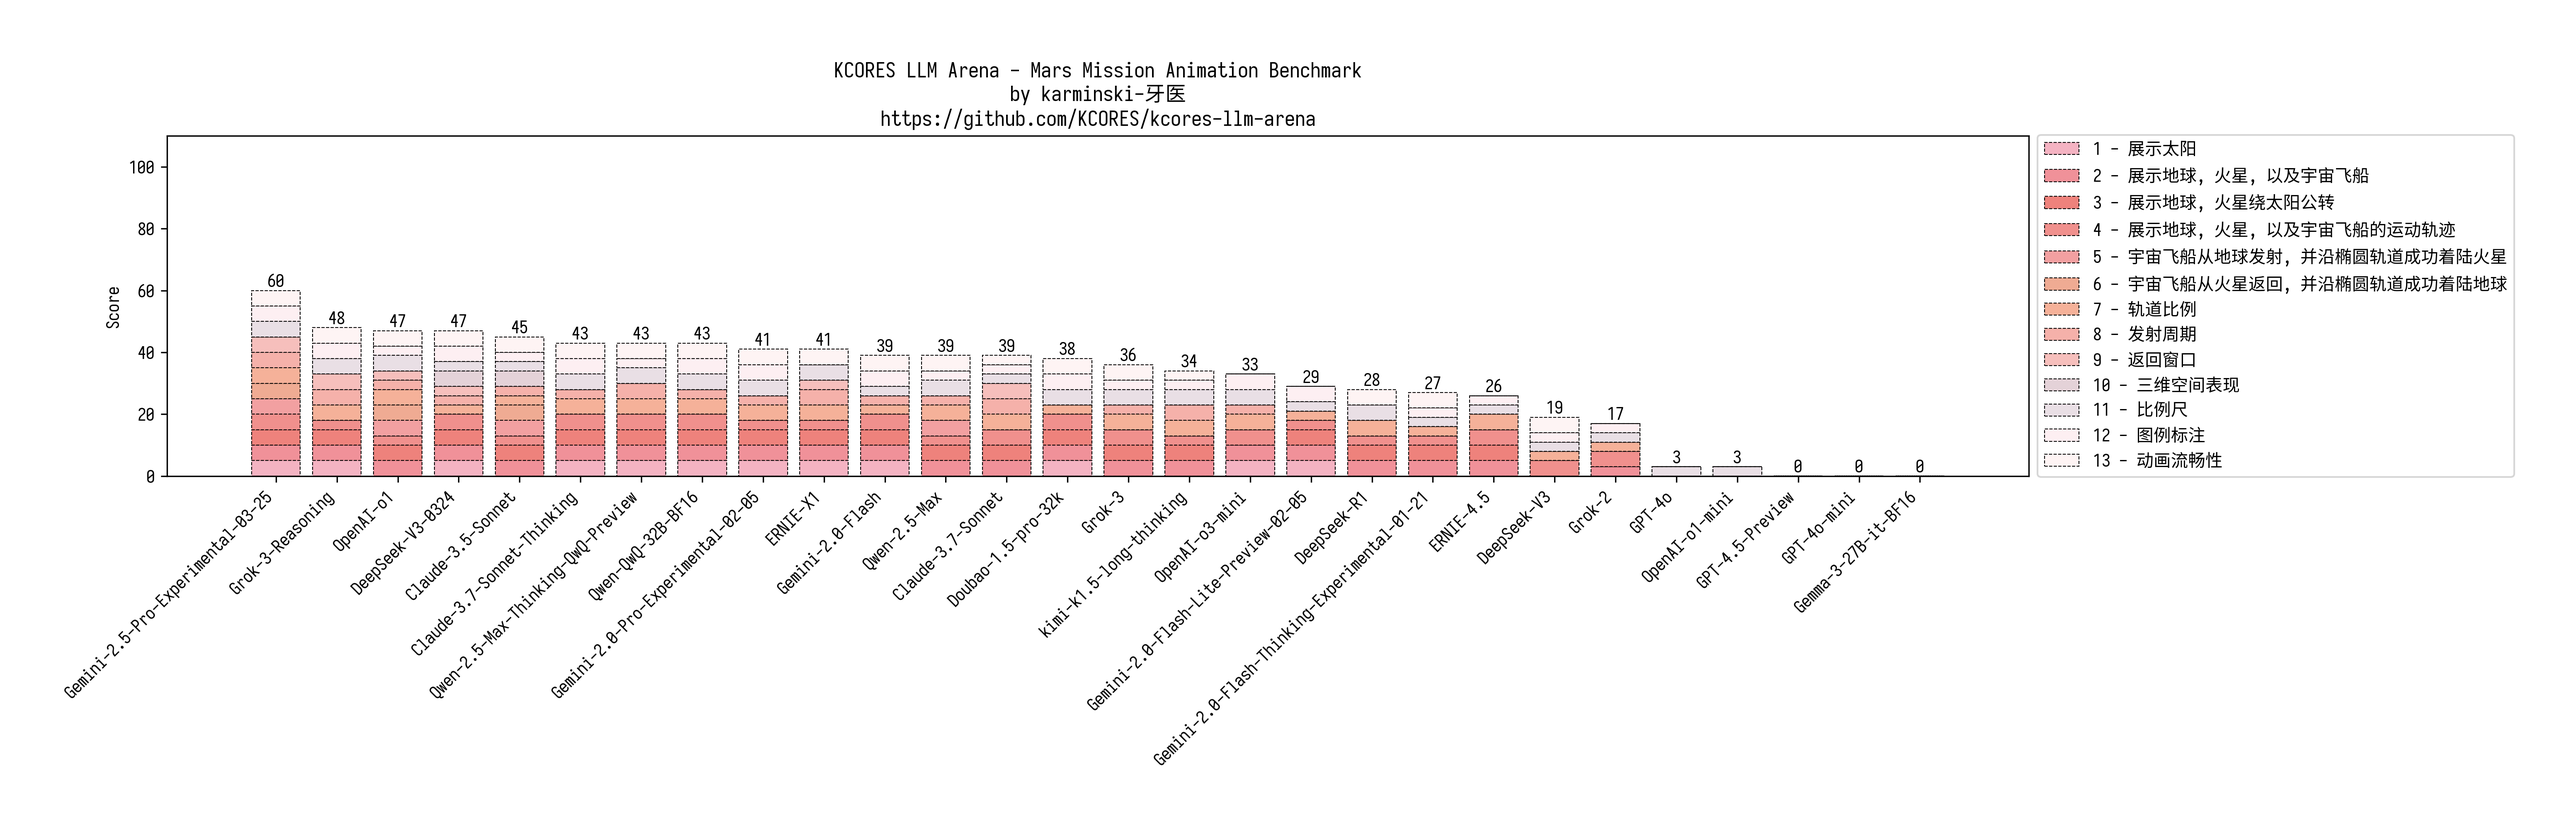
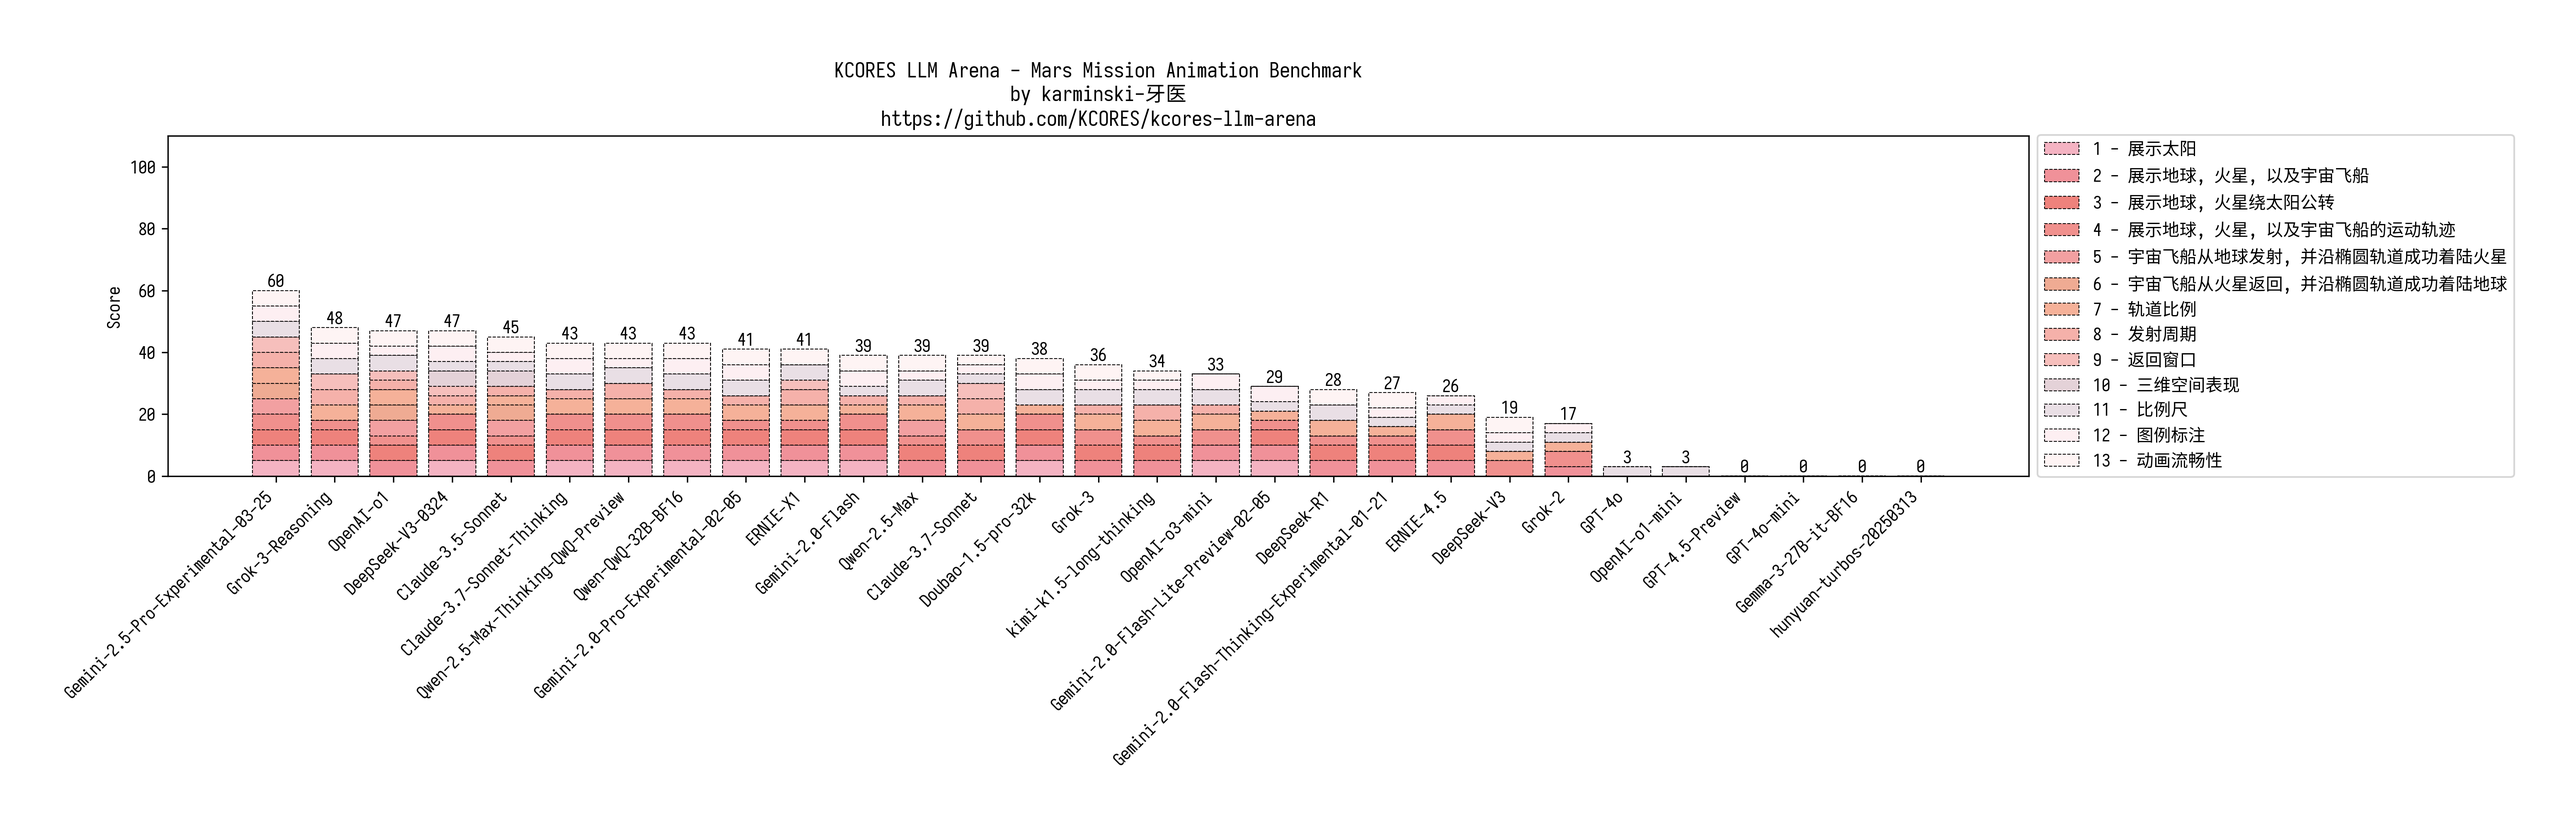
finished evaluation for hunyuan-turbos-20250313 on mars-mission

diff --git a/benchmark-mars-mission/src/benchmark-mars-mission-hunyuan-turbos-20250313-turn-3.py b/benchmark-mars-mission/src/benchmark-mars-mission-hunyuan-turbos-20250313-turn-3.py
@@ -1,0 +1,129 @@
+import numpy as np
+import matplotlib.pyplot as plt
+from mpl_toolkits.mplot3d import Axes3D
+from matplotlib.animation import FuncAnimation
+
+# Constants
+AU = 1.496e11  # Astronomical Unit (m)
+EARTH_RADIUS = 6.371e6  # Earth radius (m)
+MARS_RADIUS = 3.389e6  # Mars radius (m)
+TIME_STEP = 10  # Time step for animation (days)
+TOTAL_DAYS = 800  # Total simulation time (days)
+LAUNCH_WINDOW_DELAY = 26 * 30  # Next launch window delay (days, ~26 months)
+
+# Function to calculate positions (simplified elliptical orbits)
+def calculate_orbit(radius, angular_speed, t):
+    theta = angular_speed * t
+    x = radius * np.cos(theta)
+    y = radius * np.sin(theta)
+    z = 0  # Assuming coplanar orbits for simplicity
+    return x, y, z
+
+# Generate Earth and Mars positions
+days = np.arange(0, TOTAL_DAYS, TIME_STEP)
+earth_orbit_radius = AU
+mars_orbit_radius = 1.524 * AU  # Mars is 1.524 AU from the Sun
+
+earth_positions = np.array([calculate_orbit(earth_orbit_radius, 2 * np.pi / (365), t) for t in days])
+mars_positions = np.array([calculate_orbit(mars_orbit_radius, 2 * np.pi / (687), t) for t in days])
+
+# Launch and landing points
+launch_time = 0
+landing_time = 400  # Simulated landing time (days)
+return_time = landing_time + 300  # Simulated return time (days)
+
+# Spacecraft trajectory (simplified straight-line interpolation)
+def spacecraft_trajectory(start, end, duration, total_days):
+    t = np.arange(0, total_days, TIME_STEP)
+    trajectory = []
+    for ti in t:
+        if ti <= launch_time:
+            point = start
+        elif ti <= landing_time:
+            progress = (ti - launch_time) / (landing_time - launch_time)
+            point = (1 - progress) * np.array(start) + progress * np.array(end)
+        elif ti <= return_time:
+            progress = (ti - landing_time) / (return_time - landing_time)
+            point = (1 - progress) * np.array(end) + progress * np.array(start)
+        else:
+            point = start
+        trajectory.append(point)
+    return np.array(trajectory)
+
+# Earth to Mars trajectory
+earth_to_mars_trajectory = spacecraft_trajectory(
+    earth_positions[launch_time], mars_positions[landing_time], landing_time - launch_time, TOTAL_DAYS
+)
+
+# Mars to Earth trajectory
+mars_to_earth_trajectory = spacecraft_trajectory(
+    mars_positions[landing_time], earth_positions[return_time], return_time - landing_time, TOTAL_DAYS
+)
+
+# Combine all trajectories
+spacecraft_positions = np.vstack([
+    earth_positions[:launch_time],
+    earth_to_mars_trajectory,
+    mars_positions[landing_time:return_time],
+    mars_to_earth_trajectory,
+    earth_positions[return_time:]
+])
+
+# Plotting
+fig = plt.figure(figsize=(10, 8))
+ax = fig.add_subplot(111, projection='3d')
+
+# Draw orbits
+earth_orbit = ax.plot(earth_positions[:, 0], earth_positions[:, 1], earth_positions[:, 2], 'b', label='Earth Orbit')[0]
+mars_orbit = ax.plot(mars_positions[:, 0], mars_positions[:, 1], mars_positions[:, 2], 'r', label='Mars Orbit')[0]
+
+# Draw Earth and Mars
+earth = ax.scatter([earth_positions[0, 0]], [earth_positions[0, 1]], [earth_positions[0, 2]], c='blue', s=100, label='Earth')
+mars = ax.scatter([mars_positions[0, 0]], [mars_positions[0, 1]], [mars_positions[0, 2]], c='red', s=80, label='Mars')
+
+# Initialize spacecraft marker
+spacecraft = ax.scatter([], [], [], c='green', s=50, label='Spacecraft')
+
+# Animation function
+def update(frame):
+    ax.clear()
+    
+    # Draw orbits
+    ax.plot(earth_positions[:, 0], earth_positions[:, 1], earth_positions[:, 2], 'b', label='Earth Orbit')
+    ax.plot(mars_positions[:, 0], mars_positions[:, 1], mars_positions[:, 2], 'r', label='Mars Orbit')
+    
+    # Draw Earth and Mars
+    ax.scatter([earth_positions[frame, 0]], [earth_positions[frame, 1]], [earth_positions[frame, 2]], c='blue', s=100, label='Earth')
+    ax.scatter([mars_positions[frame, 0]], [mars_positions[frame, 1]], [mars_positions[frame, 2]], c='red', s=80, label='Mars')
+    
+    # Update spacecraft position
+    if frame < launch_time:
+        spacecraft_pos = earth_positions[frame]
+    elif frame < landing_time:
+        progress = (frame - launch_time) / (landing_time - launch_time)
+        spacecraft_pos = (1 - progress) * earth_positions[launch_time] + progress * mars_positions[landing_time]
+    elif frame < return_time:
+        progress = (frame - landing_time) / (return_time - landing_time)
+        spacecraft_pos = (1 - progress) * mars_positions[landing_time] + progress * earth_positions[return_time]
+    else:
+        spacecraft_pos = earth_positions[frame]
+    
+    spacecraft = ax.scatter([spacecraft_pos[0]], [spacecraft_pos[1]], [spacecraft_pos[2]], c='green', s=50, label='Spacecraft')
+    
+    # Set plot limits
+    ax.set_xlim([-2 * AU, 2 * AU])
+    ax.set_ylim([-2 * AU, 2 * AU])
+    ax.set_zlim([-AU, AU])
+    
+    # Labels and legend
+    ax.set_xlabel('X (m)')
+    ax.set_ylabel('Y (m)')
+    ax.set_zlabel('Z (m)')
+    ax.legend()
+    ax.set_title('Spacecraft Trajectory: Earth to Mars and Back')
+
+# Create animation
+ani = FuncAnimation(fig, update, frames=len(days), interval=50, repeat=True)
+
+# Show plot
+plt.show()

diff --git a/benchmark-mars-mission/src/benchmark-mars-mission-hunyuan-turbos-20250313-turn-1.py b/benchmark-mars-mission/src/benchmark-mars-mission-hunyuan-turbos-20250313-turn-1.py
@@ -1,0 +1,125 @@
+import numpy as np
+import matplotlib.pyplot as plt
+from mpl_toolkits.mplot3d import Axes3D
+from matplotlib.animation import FuncAnimation
+
+# Constants
+AU = 1.496e11  # Astronomical Unit (m)
+EARTH_RADIUS = 6.371e6  # Earth radius (m)
+MARS_RADIUS = 3.389e6  # Mars radius (m)
+EARTH_ORBIT_RADIUS = 1 * AU
+MARS_ORBIT_RADIUS = 1.524 * AU
+TIME_STEP = 10  # Days per frame
+SIMULATION_DAYS = 730  # Total simulation time (2 years)
+
+# Helper function to calculate positions in orbits
+def circular_orbit_position(radius, angle):
+    x = radius * np.cos(angle)
+    y = radius * np.sin(angle)
+    z = 0
+    return x, y, z
+
+# Generate Earth and Mars positions
+earth_angles = np.linspace(0, 2 * np.pi, SIMULATION_DAYS // TIME_STEP)
+mars_angles = np.linspace(0, 2 * np.pi + 0.5 * np.pi, SIMULATION_DAYS // TIME_STEP)  # Mars leads by 240 degrees
+
+earth_positions = np.array([circular_orbit_position(EARTH_ORBIT_RADIUS, angle) for angle in earth_angles])
+mars_positions = np.array([circular_orbit_position(MARS_ORBIT_RADIUS, angle) for angle in mars_angles])
+
+# Launch and landing parameters
+launch_duration = 10  # Days
+landing_duration = 5  # Days
+return_duration = 200  # Days
+
+# Interpolation for the spacecraft trajectory
+def interpolate_trajectory(start, end, duration, steps):
+    t = np.linspace(0, 1, steps)
+    x = start[0] + t * (end[0] - start[0])
+    y = start[1] + t * (end[1] - start[1])
+    z = start[2] + t * (end[2] - start[2])
+    return x, y, z
+
+# Spacecraft trajectory
+spacecraft_trajectory = []
+
+# Launch from Earth
+launch_start = earth_positions[0]
+launch_end = earth_positions[launch_duration // TIME_STEP]
+x_launch, y_launch, z_launch = interpolate_trajectory(launch_start, launch_end, launch_duration, 50)
+spacecraft_trajectory.append((x_launch, y_launch, z_launch))
+
+# Transit to Mars
+transit_start = launch_end
+transit_end = mars_positions[launch_duration // TIME_STEP]
+x_transit, y_transit, z_transit = interpolate_trajectory(transit_start, transit_end, 300, 100)
+spacecraft_trajectory.append((x_transit, y_transit, z_transit))
+
+# Landing on Mars
+landing_start = transit_end
+landing_end = mars_positions[launch_duration // TIME_STEP + landing_duration // TIME_STEP]
+x_landing, y_landing, z_landing = interpolate_trajectory(landing_start, landing_end, landing_duration, 20)
+spacecraft_trajectory.append((x_landing, y_landing, z_landing))
+
+# Stay on Mars (simulated as a stationary point)
+stay_start = landing_end
+stay_end = stay_start
+x_stay, y_stay, z_stay = np.full((50, 1), stay_start[0]), np.full((50, 1), stay_start[1]), np.full((50, 1), stay_start[2])
+spacecraft_trajectory.append((x_stay, y_stay, z_stay))
+
+# Return to Earth
+return_start = stay_end[-1]
+return_end = earth_positions[-1]
+x_return, y_return, z_return = interpolate_trajectory(return_start, return_end, return_duration, 100)
+spacecraft_trajectory.append((x_return, y_return, z_return))
+
+# Combine all trajectory segments
+trajectory = np.concatenate([
+    np.column_stack(t) for t in spacecraft_trajectory
+], axis=0)
+
+# Animation setup
+fig = plt.figure(figsize=(10, 8))
+ax = fig.add_subplot(111, projection='3d')
+
+# Plot Earth and Mars orbits
+earth_orbit, = ax.plot([], [], [], 'b', label='Earth Orbit')
+mars_orbit, = ax.plot([], [], [], 'r', label='Mars Orbit')
+
+# Plot Earth and Mars
+earth = ax.scatter([], [], [], c='blue', s=EARTH_RADIUS**2 / 1e6, label='Earth')
+mars = ax.scatter([], [], [], c='red', s=MARS_RADIUS**2 / 1e6, label='Mars')
+
+# Plot spacecraft
+spacecraft, = ax.plot([], [], [], 'k-o', label='Spacecraft')
+
+# Labels and legend
+ax.set_xlabel('X (m)')
+ax.set_ylabel('Y (m)')
+ax.set_zlabel('Z (m)')
+ax.legend()
+ax.set_title('3D Animation of Earth-Mars-Earth Mission')
+
+# Animation update function
+def update(frame):
+    # Update Earth and Mars orbits
+    earth_orbit.set_data(earth_positions[:frame, 0], earth_positions[:frame, 1])
+    earth_orbit.set_3d_properties(earth_positions[:frame, 2])
+    mars_orbit.set_data(mars_positions[:frame, 0], mars_positions[:frame, 1])
+    mars_orbit.set_3d_properties(mars_positions[:frame, 2])
+
+    # Update Earth and Mars positions
+    earth._offsets3d = (earth_positions[frame, 0:1], earth_positions[frame, 1:2], np.zeros(1))
+    mars._offsets3d = (mars_positions[frame, 0:1], mars_positions[frame, 1:2], np.zeros(1))
+
+    # Update spacecraft trajectory
+    if frame < len(trajectory):
+        spacecraft.set_data(trajectory[:frame, 0], trajectory[:frame, 1])
+        spacecraft.set_3d_properties(trajectory[:frame, 2])
+
+    return earth_orbit, mars_orbit, earth, mars, spacecraft
+
+# Create animation
+ani = FuncAnimation(fig, update, frames=range(len(earth_positions)), interval=50, blit=False)
+
+# Show plot
+plt.show()

diff --git a/benchmark-mars-mission/src/benchmark-mars-mission-hunyuan-turbos-20250313-turn-2.py b/benchmark-mars-mission/src/benchmark-mars-mission-hunyuan-turbos-20250313-turn-2.py
@@ -1,0 +1,99 @@
+import numpy as np
+import matplotlib.pyplot as plt
+from mpl_toolkits.mplot3d import Axes3D
+from matplotlib.animation import FuncAnimation
+
+# Constants
+AU = 1.496e11  # Astronomical Unit (m)
+earth_orbit_radius = 1 * AU
+mars_orbit_radius = 1.524 * AU
+earth_rotation_period = 365.25  # days
+mars_rotation_period = 687  # days
+time_step = 10  # days
+total_time = (earth_rotation_period + mars_rotation_period) * 2  # Simulate one round trip
+
+# Generate Earth and Mars orbits
+theta_earth = np.linspace(0, 2 * np.pi, 100)
+theta_mars = np.linspace(0, 2 * np.pi, 100)
+x_earth = earth_orbit_radius * np.cos(theta_earth)
+y_earth = earth_orbit_radius * np.sin(theta_earth)
+z_earth = np.zeros_like(x_earth)
+
+x_mars = mars_orbit_radius * np.cos(theta_mars)
+y_mars = mars_orbit_radius * np.sin(theta_mars)
+z_mars = np.zeros_like(x_mars)
+
+# Launch and return path (simplified straight-line interpolation)
+def get_spaceship_path(start, end, steps):
+    x = np.linspace(start[0], end[0], steps)
+    y = np.linspace(start[1], end[1], steps)
+    z = np.linspace(start[2], end[2], steps)
+    return x, y, z
+
+# Earth to Mars
+earth_to_mars_steps = 50
+mars_landing_point = (mars_orbit_radius, 0, 0)  # Simplified landing on Mars
+spaceship_path_earth_to_mars = get_spaceship_path(
+    (earth_orbit_radius, 0, 0), mars_landing_point, earth_to_mars_steps
+)
+
+# Mars to Earth
+mars_to_earth_steps = 50
+spaceship_path_mars_to_earth = get_spaceship_path(
+    mars_landing_point, (earth_orbit_radius, 0, 0), mars_to_earth_steps
+)
+
+# Combine paths
+x_ship = np.concatenate([spaceship_path_earth_to_mars[0], mars_landing_point[0], spaceship_path_mars_to_earth[0]])
+y_ship = np.concatenate([spaceship_path_earth_to_mars[1], mars_landing_point[1], spaceship_path_mars_to_earth[1]])
+z_ship = np.concatenate([spaceship_path_earth_to_mars[2], mars_landing_point[2], spaceship_path_mars_to_earth[2]])
+
+# Time array for animation
+time = np.arange(0, total_time, time_step)
+
+# Create 3D plot
+fig = plt.figure(figsize=(10, 8))
+ax = fig.add_subplot(111, projection='3d')
+
+# Plot Earth and Mars orbits
+earth_orbit, = ax.plot(x_earth, y_earth, z_earth, label='Earth Orbit', color='blue')
+mars_orbit, = ax.plot(x_mars, y_mars, z_mars, label='Mars Orbit', color='red')
+
+# Initialize spaceship path
+spaceship, = ax.plot([], [], [], label='Spaceship', color='green', marker='o')
+
+# Labels and legend
+ax.set_xlabel('X (m)')
+ax.set_ylabel('Y (m)')
+ax.set_zlabel('Z (m)')
+ax.legend()
+ax.set_title('3D Animation of Earth-Mars-Earth Mission')
+
+# Animation function
+def update(frame):
+    # Calculate spaceship position based on time
+    if frame < len(spaceship_path_earth_to_mars[0]):
+        # Earth to Mars
+        ship_x = spaceship_path_earth_to_mars[0][frame]
+        ship_y = spaceship_path_earth_to_mars[1][frame]
+        ship_z = spaceship_path_earth_to_mars[2][frame]
+    elif frame < len(spaceship_path_earth_to_mars[0]) + 1:
+        # Mars landing
+        ship_x, ship_y, ship_z = mars_landing_point
+    else:
+        # Mars to Earth
+        offset = frame - (len(spaceship_path_earth_to_mars[0]) + 1)
+        ship_x = spaceship_path_mars_to_earth[0][offset]
+        ship_y = spaceship_path_mars_to_earth[1][offset]
+        ship_z = spaceship_path_mars_to_earth[2][offset]
+
+    # Update spaceship position
+    spaceship.set_data([ship_x], [ship_y])
+    spaceship.set_3d_properties([ship_z])
+    return spaceship,
+
+# Create animation
+ani = FuncAnimation(fig, update, frames=np.arange(0, len(spaceship_path_earth_to_mars[0]) + 2 + mars_to_earth_steps), interval=50, blit=True)
+
+# Show plot
+plt.show()

diff --git a/benchmark-mars-mission/README.md b/benchmark-mars-mission/README.md
@@ -91,14 +91,12 @@ Generate code for an animated 3d plot of a launch from earth landing on mars and
 | Gemma-3-27B-it-BF16 |  0 | 0 | 0  | 0|  0  | 0 | 0 | 0 | 0 | 0  | 0 | 0 |  0 | 0 |
 | ERNIE-4.5 | 0 | 5 | 5 | 5 | 0 (轨道错误) | 0 (轨道错误) | 5 | 0 (偏差大于50%) | 0 (偏差大于50%) | 0 (无倾角) | 3 (有比例尺) | 3 (无太阳) | 0 (无法完成演示) | 26 |
 | ERNIE-X1 | 5 | 5 | 5 | 3 (仅展示宇宙飞船轨迹) | 0 (轨道错误) | 0 (轨道错误) | 5 | 5 | 3 (偏差小于50%) | 0 (无倾角) | 5 | 0 (无图例) | 5 | 41 |
-<<<<<<< HEAD
 | Doubao-1.5-pro-32k | 5 | 5 | 5 | 5 | 0 (飞船轨道错误) | 0 | 3 (轨道比例错误) | 0 | 0 | 0 (无倾角) | 5 | 5 | 5 | 38 |
 | kimi-k1.5-long-thinking | 0 (没有太阳) | 5 | 5 | 3 (飞船没有展示轨道) | 0 (轨道错误) | 0 | 5 | 5 | 0 (返回窗口错误) | 0 (无倾角) | 5 | 3 (图例不全) | 3 (动画过快) | 34 |
-=======
 | DeepSeek-V3-0324 | 5 | 5 | 5 | 5 | 0 (轨道错误) | 0 (轨道错误) | 3 (比例正确) | 3 (偏差小于50%) | 3 (偏差小于50%) | 5  | 3 (有比例尺) | 5 | 5  | 47 |
 | Gemini-2.5-Pro-Experimental-03-25 |   5 | 5 | 5 | 5 | 5| 5 | 5 | 5  | 5  | 0 (无倾角) | 5  | 5 | 5  | 60 |
+| hunyuan-turbos-20250313 | 0 | 0 | 0 | 0| 0 | 0 | 0 | 0 | 0 | 0 | 0 | 0 | 0 | 0 |
 
->>>>>>> ramondsq-main
 
 ## 可视化结果
 
